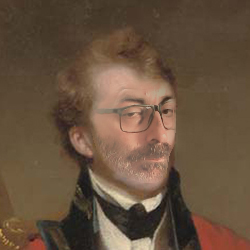
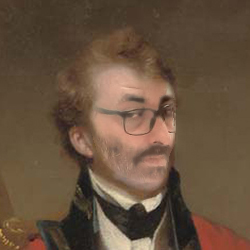
cc shift

Changed region(s): [[0.392, 0.336, 0.7, 0.728], [0.42, 0.588, 0.476, 0.644]]

diff --git a/faceFit/FaceFit_kivy_overimpressed.py b/faceFit/FaceFit_kivy_overimpressed.py
@@ -6,6 +6,7 @@ from operator import itemgetter
 import math
 import json
 import os
+from pathlib import Path
 # import kivy module
 import kivy
 from kivy.app import App
@@ -41,16 +42,14 @@ RIGHT_EYEBROW = mp_face_mesh.FACEMESH_RIGHT_EYEBROW
 RIGHT_IRIS = mp_face_mesh.FACEMESH_RIGHT_IRIS
 LIPS = mp_face_mesh.FACEMESH_LIPS
 FACE_OVAL = mp_face_mesh.FACEMESH_FACE_OVAL
+drawing_spec = mp_drawing.DrawingSpec(thickness=1, circle_radius=1)
 
 font = cv2.FONT_HERSHEY_SIMPLEX
 final_morphs = {}
 ref_files = []
 ref_images = []
-project_path = 'C:/Users/arkfil/Desktop/FITFace/faceFit'
-ref_path = project_path + '/images/'
 buttons = []
 result_buttons = []
-drawing_spec = mp_drawing.DrawingSpec(thickness=1, circle_radius=1)
 selected = -1
 labels = []
 pbars = []
@@ -59,7 +58,20 @@ out = []
 curr = 0
 delta = 5
 sm = {}
-view_default = 'images/Thumbs/view_default.jpg'
+
+try:
+    root = os.path.dirname(os.path.abspath(__file__))
+except NameError:
+    import sys
+
+    root = os.path.dirname(os.path.abspath(sys.argv[0]))
+
+print(root)
+project_path = root
+ref_path = project_path + '/images/'
+morph_path = ref_path + 'final_morphs/'
+view_default = ref_path + 'Thumbs/view_default.jpg'
+
 # OBJECTS
 class FacePart:
     def __init__(self, part_group):
@@ -251,13 +263,11 @@ class MyButton(ToggleButtonBehavior, Image):
     #Change the image, rectangular when pressed+Darken the color
     def button_texture(self, data, off=False):
         im = cv2.imread(data)
-        # im = self.square_image(im)
         if off:
             # im = self.adjust(im)
             im = cv2.rectangle(im, (1, 1), (im.shape[1]-1, im.shape[0]-1), (255, 255, 255), 10)
 
-        #flip upside down
-        buf = cv2.flip(im, 0)
+        buf = cv2.flip(im, 0)  # flip upside down
         image_texture = Texture.create(size=(im.shape[1], im.shape[0]), colorfmt='bgr')
         image_texture.blit_buffer(buf.tobytes(), colorfmt='bgr', bufferfmt='ubyte')
         return image_texture
@@ -266,14 +276,10 @@ class MyButton(ToggleButtonBehavior, Image):
 class Camera(Image):
     def __init__(self, **kwargs):
         super(Camera, self).__init__(**kwargs)
-        # Connect to 0th camera
-        self.capture = cv2.VideoCapture(0)
-        # self.reference = selected
-        # self.texture = Image()
-        # Set drawing interval
-        Clock.schedule_interval(self.update, 1.0 / 30)
+        self.capture = cv2.VideoCapture(0)  # Connect to 0th camera
+        self.reference = selected
+        Clock.schedule_interval(self.update, 1.0 / 30)  # Set drawing interval
 
-    # Drawing method to execute at intervals
     def update(self, dt):
         global selected, view
         self.reference = selected
@@ -305,7 +311,7 @@ class Camera(Image):
 
             self.texture = texture
             if match():
-                path = 'images/final_morphs/morph_' + str(self.reference) + '.png'
+                path = morph_path + 'morph_' + str(self.reference) + '.png'
                 cv2.imwrite(path, final_morphs[self.reference])
                 result_buttons[self.reference].source = path
                 buttons[self.reference].state = 'normal'
@@ -348,7 +354,7 @@ class BoxLayoutApp(App):  # class in which we are creating the button
         self.c_box = BoxLayout(orientation='vertical', size=(dp(800), dp(1000)), size_hint=(.6, 1), padding=[5,5,5,5])
         self.my_camera = Camera(allow_stretch=True, keep_ratio=True, size_hint=(1, 1), width=self.c_box.size[0],
                                 height=self.c_box.size[1] / (self.c_box.size[0] / self.c_box.size[1]))
-        self.view = Image(source='images/Thumbs/view_default.jpg', allow_stretch=True, keep_ratio=True, size_hint=(1, 1),
+        self.view = Image(source=view_default, allow_stretch=True, keep_ratio=True, size_hint=(1, 1),
                           width=self.c_box.size[0], height=self.c_box.size[1] / (self.c_box.size[0] / self.c_box.size[1]))
 
         view = self.view
@@ -436,7 +442,7 @@ class BoxLayoutApp(App):  # class in which we are creating the button
         self.c_box.add_widget(self.riferimenti)
         # # ##RIGHT PART## #
         self.box_results.bind(minimum_height=self.box_results.setter('height'))
-        self.box_results = self.image_load("results_images/", self.box_results)
+        self.box_results = self.image_load('images/Thumbs/', self.box_results)
         self.sc_view_results.add_widget(self.box_results)
         self.r_box.add_widget(self.title_r)
         self.r_box.add_widget(self.sc_view_results)
@@ -469,9 +475,8 @@ class BoxLayoutApp(App):  # class in which we are creating the button
                 button.bind(on_press=self.select)
                 grid.add_widget(button)
 
-        elif im_dir == "results_images/":
+        elif im_dir == 'images/Thumbs/':
             for idx, file in enumerate(ref_files):
-                im_dir = 'images/Thumbs/'
                 thumb = 'morph_thumb.jpg'
                 button = MyButton(size_hint_y=None,
                                   height=150,
@@ -493,12 +498,11 @@ class BoxLayoutApp(App):  # class in which we are creating the button
                 labels[2].__setattr__('text', str(int(ref[b].tilt['angle'])))
                 selected = b
             elif buttons[b] == btn and btn.state == 'normal':
-                # buttons[b].__setattr__('height', 150)
                 self.view.source = ''
                 for i in range(0, 6):
                     labels[i].__setattr__('text', '-')
                 selected = -1
-                self.view.source = 'images/Thumbs/view_default.jpg'
+                self.view.source = view_default
         return btn
 
 
@@ -544,7 +548,6 @@ def warp_triangle(img1, img2, t1, t2):
     # Get mask by filling triangle
     mask = np.zeros((r2[3], r2[2], 3), dtype=np.float32)
     cv2.fillConvexPoly(mask, np.int32(t2_rect_int), (1.0, 1.0, 1.0), 16, 0)
-    # mask = cv2.GaussianBlur(mask, (3,3), sigmaX=0, sigmaY=0)
 
     # Apply warpImage to small rectangular patches
     img1_rect = img1[r1[1]:r1[1] + r1[3], r1[0]:r1[0] + r1[2]]
@@ -565,10 +568,7 @@ def find_center(points_array):
     return int(sum_x / length), int(sum_y / length)
 
 
-
-
-
-# MATCHING FUNCTION
+# MATCHING FUNCTIONS
 def match():
     global cam_obj
 
@@ -615,8 +615,6 @@ def check_expression(img, landmarks):
     else:
         lips = 'full opened'
 
-    # lips_center = (int(landmarks[13].x * img.shape[1]), int(landmarks[13].y * img.shape[0]))
-
     return l_e, r_e, lips, l_center, r_center, lips_center
 
 
@@ -656,8 +654,7 @@ def where_is_looking(img, f_landmarks, what):
     if what == 'ref':  # if reference
         alpha = angles[0] * 360
         beta = angles[1] * 360
-        # gamma = angles[2] * 360
-    else:  ## 'lower': -25, 'upper': 25}, 'desired': {'lower': -35, 'upper': 48}}
+    else:
         alpha = int(normalize(alpha, {'actual': {'lower': -40, 'upper': 40}, 'desired': {'lower': -40, 'upper': 40}}))
         beta = int(normalize(beta, {'actual': {'lower': -15, 'upper': 12}, 'desired': {'lower': -65, 'upper': 55}}))
 
@@ -685,30 +682,6 @@ def where_is_looking(img, f_landmarks, what):
             text = "Looking Forward"
 
     return [text, beta, alpha]
-
-
-
-
-# def draw(part, img, face_l):
-#     conn = ''
-#     dr_spec = ''
-#     if part == 'iris':
-#         conn = mp_face_mesh.FACEMESH_IRISES
-#         dr_spec = mp_drawing_styles.get_default_face_mesh_iris_connections_style()
-#     elif part == 'contours':
-#         conn = mp_face_mesh.FACEMESH_CONTOURS
-#         dr_spec = mp_drawing_styles.get_default_face_mesh_contours_style()
-#     elif part == 'tessellation':
-#         conn = mp_face_mesh.FACEMESH_TESSELATION
-#         dr_spec = mp_drawing_styles.get_default_face_mesh_tesselation_style()
-#     else:
-#         print('WRONG PART DESCRIPTOR')
-#     mp_drawing.draw_landmarks(
-#         image=img,
-#         landmark_list=face_l,
-#         connections=conn,
-#         landmark_drawing_spec=None,
-#         connection_drawing_spec=dr_spec)
 
 
 def hud_mask(mask_obj, masked_obj):
@@ -739,7 +712,6 @@ def cut_paste(obj1, obj2):
     offset = 10
     img1 = obj1.image
     img2 = obj2.image
-    # mask1 = obj1.self_hud_mask()
     mask2 = obj2.self_hud_mask()
     mask2gray = cv2.cvtColor(mask2, cv2.COLOR_BGR2GRAY)
     # cut roi face from cam
@@ -767,10 +739,10 @@ def cut_paste(obj1, obj2):
     elif delta_2_max[1] > img2.shape[0]:
         delta_2_max[1] = img2.shape[0]
 
-    new_min_x = center_1[0] - int((center_2[0] - delta_2_min[0])*media_scale)
-    new_min_y = center_1[1] - int((center_2[1] - delta_2_min[1])*media_scale)
-    new_max_x = center_1[0] + int((delta_2_max[0] - center_2[0])*media_scale)
-    new_max_y = center_1[1] + int((delta_2_max[1] - center_2[1])*media_scale)
+    new_min_x = center_1[0] - int((center_2[0] - delta_2_min[0]) * media_scale)
+    new_min_y = center_1[1] - int((center_2[1] - delta_2_min[1]) * media_scale)
+    new_max_x = center_1[0] + int((delta_2_max[0] - center_2[0]) * media_scale)
+    new_max_y = center_1[1] + int((delta_2_max[1] - center_2[1]) * media_scale)
     if new_min_x < 0:
         new_min_x = 0
     elif new_min_y < 0:
@@ -795,7 +767,6 @@ def morph(c_obj, r_obj):
     source = ref[selected].image
     target = cam_obj.image
 
-    img1_warped = np.copy(r_obj.image)
     img1_points = c_obj.pix_points
     img2_points = r_obj.pix_points
 
@@ -805,23 +776,17 @@ def morph(c_obj, r_obj):
     center = (int(mid['m10']/mid['m00']), int(mid['m01']/mid['m00']))
 
     cc_image = cv2.cvtColor(color_correct(target, source), cv2.COLOR_BGRA2BGR)
-
-    cv2.imshow('match3', cc_image)
-    print(cc_image.shape, cc_image.dtype)
     c_obj.image[c_obj.bb_p1[1]:c_obj.bb_p2[1], c_obj.bb_p1[0]:c_obj.bb_p2[0]] = cc_image
-    cv2.imshow('match4', c_obj.image)
-    # # find edges
-    # edged = find_edges(c_obj.image, 3, 1, 1, 3)
-    # c_obj.image = cv2.addWeighted(c_obj.image, 1, edged, 0.5, 0)
-
-    # triangles
-    dt = media_pipes_tris
 
     height, width, channels = r_obj.image.shape
     img2_new_face = np.zeros((height, width, channels), np.uint8)
     convexhull1 = cv2.convexHull(np.array(img1_points))
     cv2.fillConvexPoly(mask, convexhull1, 255)
     convexhull2 = cv2.convexHull(np.array(img2_points))
+
+    # triangles
+    dt = media_pipes_tris
+
     # If no Delaunay Triangles were found, quit
 
     if len(dt) == 0:
@@ -841,19 +806,6 @@ def morph(c_obj, r_obj):
     for i in range(0, len(tris1)):
         warp_triangle(c_obj.image, img2_new_face, tris1[i], tris2[i])
 
-    # Clone seamlessly.
-    # find edges
-    # edged = find_edges(img2_new_face, 3, 1, 1, 3)
-
-    # # add_sharpness
-    # kernel = np.array([[-1, -1, -1],
-    #                    [-1, 9, -1],
-    #                    [-1, -1, -1]])
-    # img2_sharp = cv2.filter2D(src=img2_new_face, ddepth=-1, kernel=kernel)
-    # img2_new_face = cv2.addWeighted(img2_new_face, 1, img2_sharp, 0.1, 1)
-    # cv2.imshow('0', edged)
-    # cv2.imshow('1', img2_sharp)
-    # cv2.waitKey(0)
     gray = cv2.cvtColor(r_obj.image, cv2.COLOR_BGR2GRAY)
     img2_face_mask = np.zeros_like(gray)
 
@@ -868,14 +820,6 @@ def morph(c_obj, r_obj):
     output = cv2.seamlessClone(out, r_obj.image, img2_head_mask, center, cv2.NORMAL_CLONE)
 
     return output
-
-
-def extract_index_nparray(nparray):
-    index = None
-    for num in nparray[0]:
-        index = num
-        break
-    return index
 
 
 def find_edges(img, blur_size, dx , dy, ksize):
@@ -896,6 +840,7 @@ def find_edges(img, blur_size, dx , dy, ksize):
     edged = cv2.cvtColor(edged, cv2.COLOR_GRAY2BGR)
     return edged
 
+
 def sharpen(img):
     # convert to gray
     gray = cv2.cvtColor(img, cv2.COLOR_BGR2GRAY)
@@ -907,13 +852,13 @@ def sharpen(img):
     division = cv2.divide(gray, smooth, scale=255)
 
     # sharpen using unsharp masking
-    sharp = filters.unsharp_mask(division, radius=2, amount=15, multichannel=False, preserve_range=False)
+    sharp = filters.unsharp_mask(division, radius=20, amount=2, preserve_range=False)
     sharp = (255 * sharp).clip(0, 255).astype(np.uint8)
 
     # threshold
     thresh = cv2.threshold(sharp, 0, 255, cv2.THRESH_BINARY + cv2.THRESH_OTSU)[1]
 
-    return sharp
+    return thresh
 
 
 def color_correct(cam_img, ref_img):
@@ -921,7 +866,7 @@ def color_correct(cam_img, ref_img):
     roi2 = ref_img[ref[selected].bb_p1[1]:ref[selected].bb_p2[1], ref[selected].bb_p1[0]:ref[selected].bb_p2[0]]
     sharp = sharpen(cam_obj.image)
     sharp_roi1 = sharp[cam_obj.bb_p1[1]:cam_obj.bb_p2[1], cam_obj.bb_p1[0]:cam_obj.bb_p2[0]]
-    sharp_roi1 = cv2.GaussianBlur(sharp_roi1, (9, 9), 0)
+    sharp_roi1 = cv2.GaussianBlur(sharp_roi1, (11, 11), 0)
     cv2.imshow('sharpen', sharp)
 
     # transfer the color distribution from the source image to the target image
@@ -939,7 +884,6 @@ def color_correct(cam_img, ref_img):
     blended = blend_modes.darken_only(roi1_norm_float, sharp_norm_float, .5)
     out = (blended * 255).astype('uint8')
     return out
-
 
 
 for filename in glob.iglob(f'{ref_path}*'):
